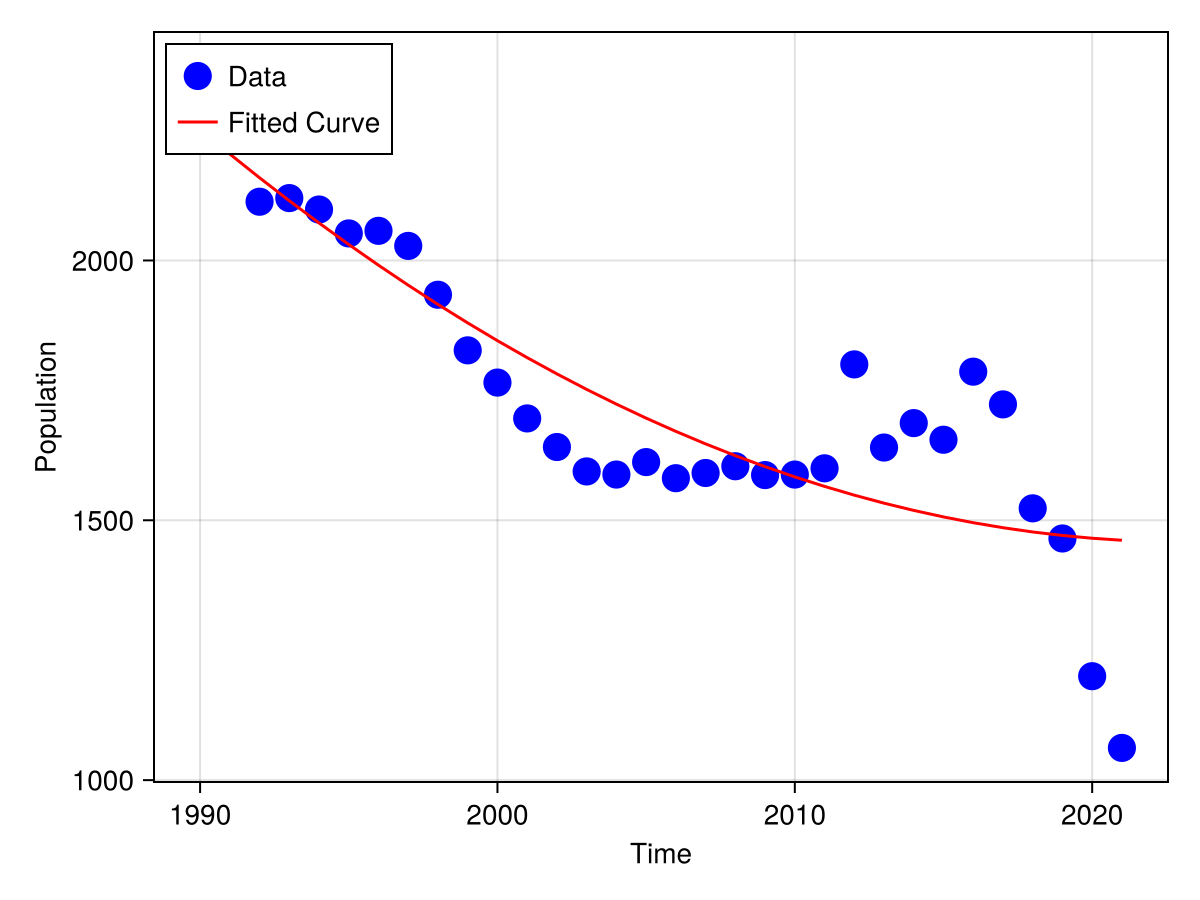
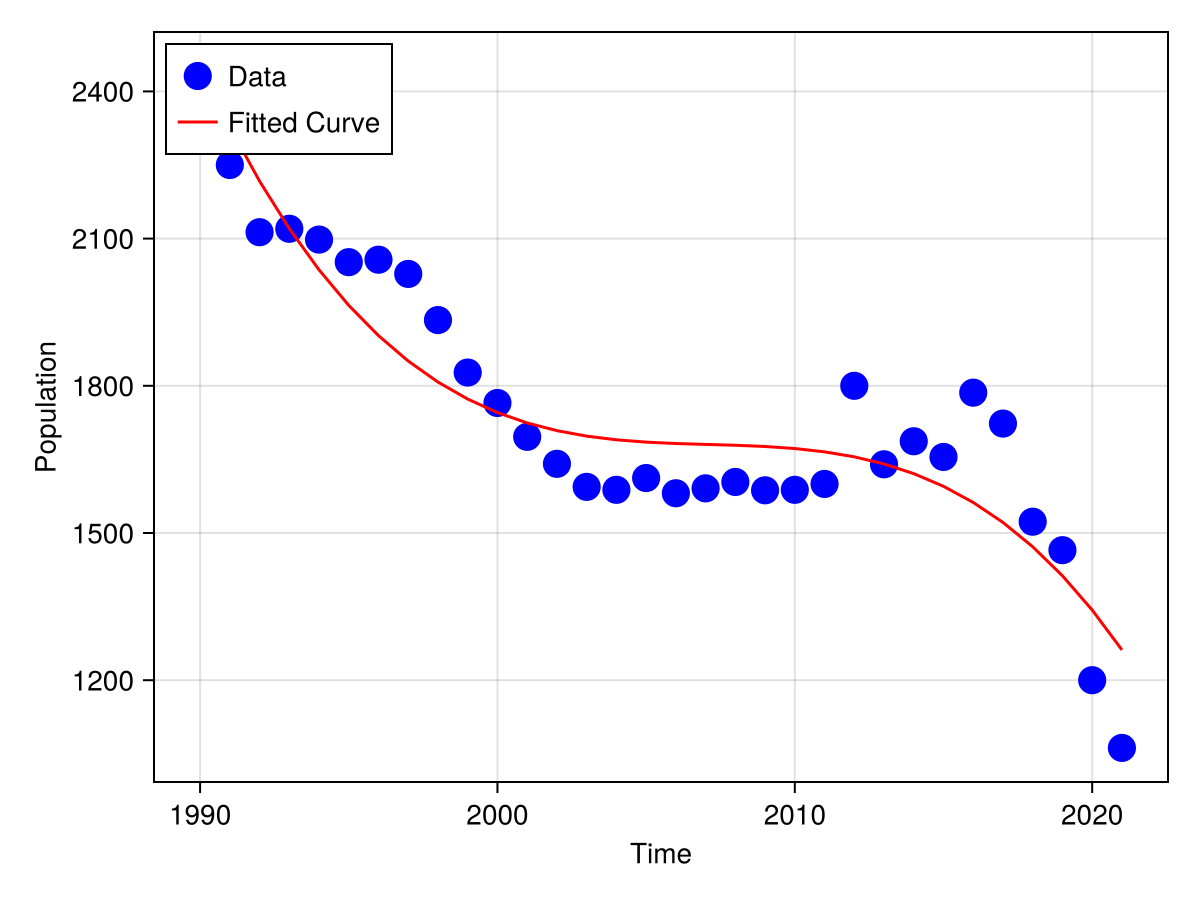
Fix some typo and using the three order polynomial to fit

diff --git a/hw4/HongkuanXia/hw4.md b/hw4/HongkuanXia/hw4.md
@@ -41,15 +41,16 @@ time = [0:1:31;]
 y = [2374,2250,2113,2120,2098,2052,2057,2028,1934,1827,1765,1696,
 1641,1594,1588,1612,1581,1591,1604,1587,1588,1600,1800,1640,1687,
 1655,1786,1723,1523,1465,1200,1062]
-A = hcat(ones(length(t)), t, t.^2)
+A = hcat(ones(length(time)), time, time.^2,time.^3)
 Q, R = qr(A)
 a = R \ (Matrix(Q)' * y)
 ```
 I get the coefficients of the ploynomial are:
 ```math
-a_0 = 2251.8467580213915,\\
-a_1 = -47.82888239606695,\\
-a_2 = 0.7205289373814038.
+a_0 = 2451.5802139037455,\\
+a_1 = -131.88430413372788,\\
+a_2 = 7.6078894850487675,\\
+a_3 = -0.14811528059499704.
 ```
 For visualizing the result, the code is:
 ```julia
@@ -82,6 +83,5 @@ and the figure is:
 The predicted data of the newborn population for 2024 is:
 ```julia-repl
 predict_value = poly(2024-1990)
-1458.596208168018
+940.7111295676092
 ```
-so it is approximately 1459×10⁴
